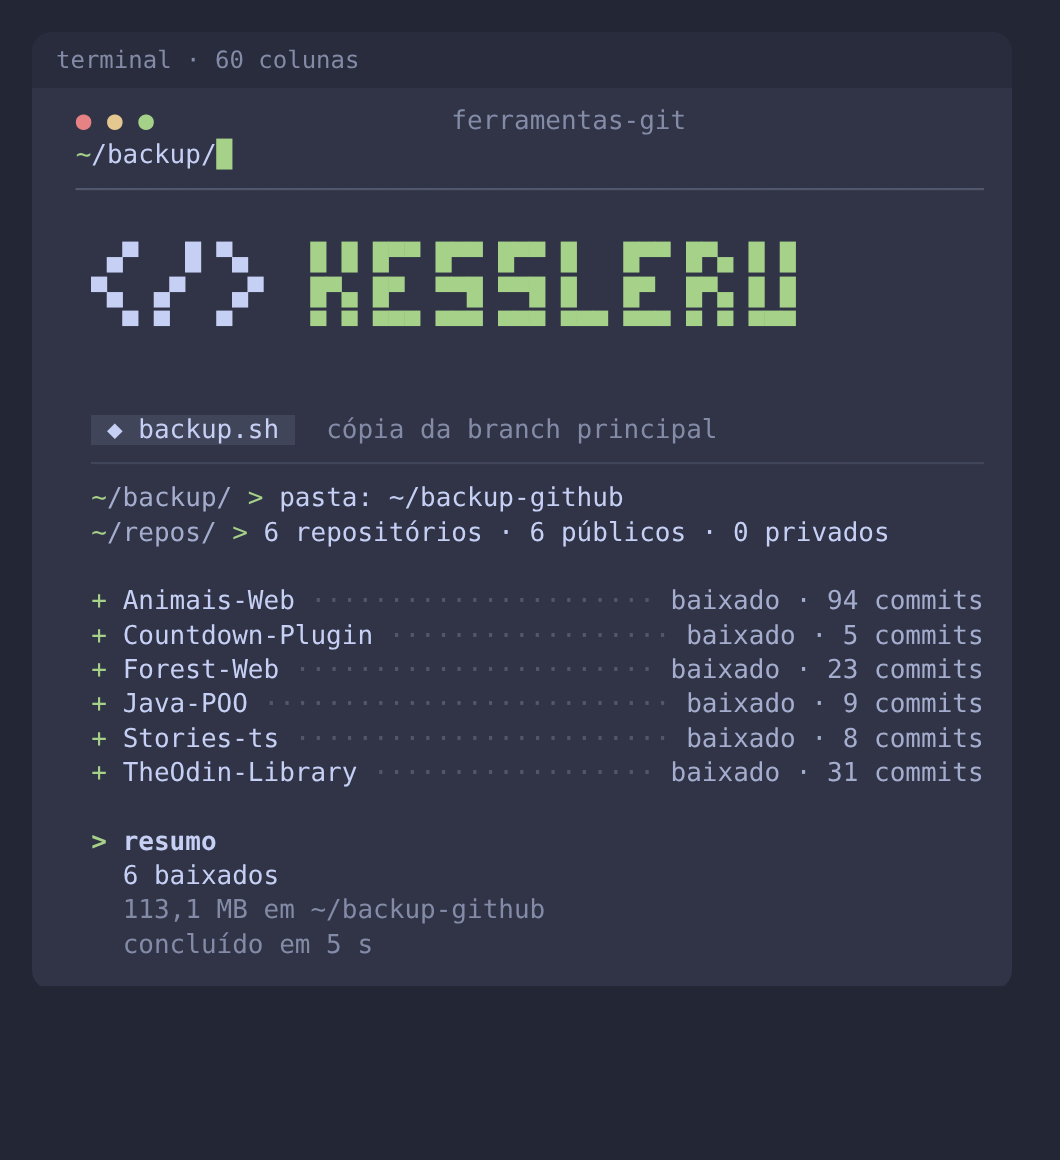
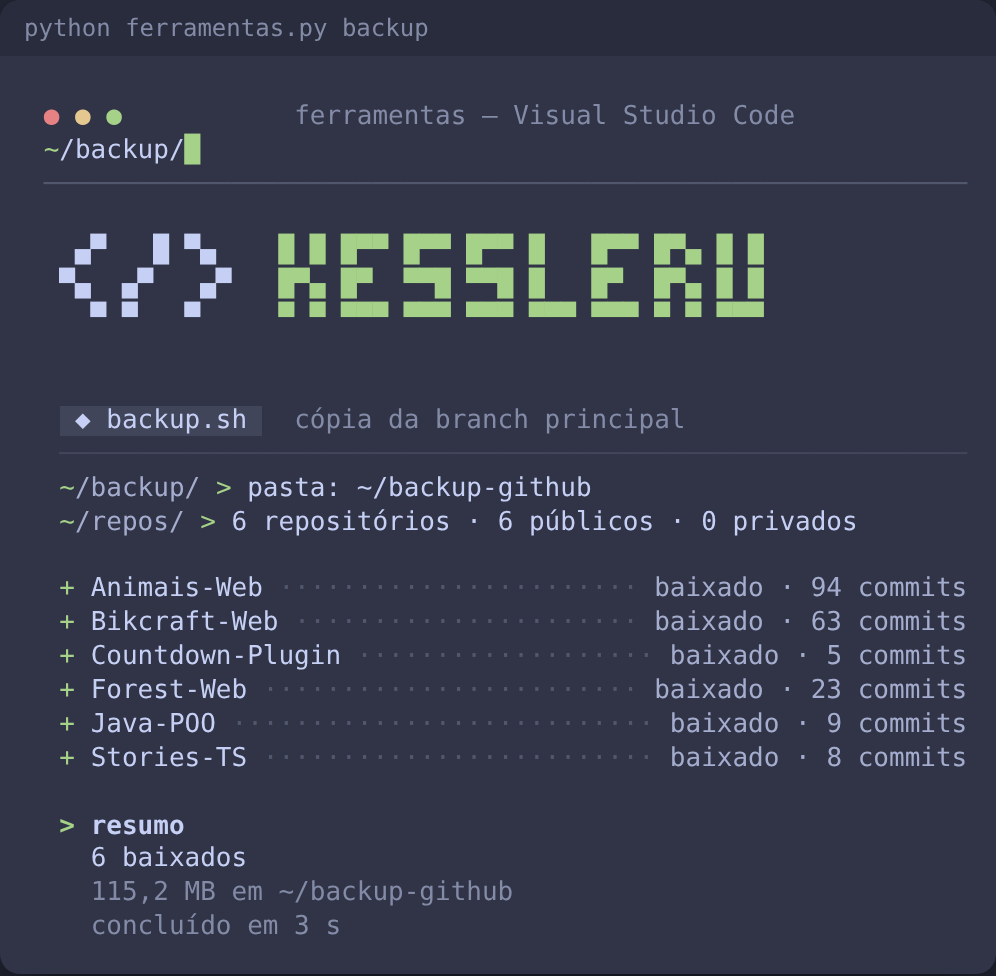
refactor: renomeia ferramentas-git para ferramentas
O arquivo passa a se chamar ferramentas.py, e o nome muda também no
título do terminal, nos relatórios, no user-agent e no README.

A pasta de relatórios, cache e backups vira ~/.ferramentas; a antiga
~/.ferramentas-git é movida sozinha na primeira execução. As variáveis
FERRAMENTAS_CASA, FERRAMENTAS_DONO e FERRAMENTAS_ASCII continuam
aceitando os nomes antigos (FERRAMENTAS_GIT_*).

Capturas do README refeitas com o nome novo.

diff --git a/ferramentas.py b/ferramentas.py
@@ -1,25 +1,25 @@
 #!/usr/bin/env python3
-# ferramentas-git — onze ferramentas num arquivo só, em duas partes.
+# ferramentas — onze ferramentas num arquivo só, em duas partes.
 #
-#   python ferramentas-git.py                abre o menu
+#   python ferramentas.py                abre o menu
 #
 #   PARTE 1 · seus repositórios no GitHub
-#   python ferramentas-git.py segredos       caça chaves e senhas no histórico
-#   python ferramentas-git.py branches       apaga branches já mescladas
-#   python ferramentas-git.py demos          confere se os sites das demos estão no ar
-#   python ferramentas-git.py backup         baixa/atualiza a branch principal de todos
-#   python ferramentas-git.py deps           vulnerabilidades e dependências velhas
-#   python ferramentas-git.py coautores      tira a coautoria do Claude do histórico
+#   python ferramentas.py segredos       caça chaves e senhas no histórico
+#   python ferramentas.py branches       apaga branches já mescladas
+#   python ferramentas.py demos          confere se os sites das demos estão no ar
+#   python ferramentas.py backup         baixa/atualiza a branch principal de todos
+#   python ferramentas.py deps           vulnerabilidades e dependências velhas
+#   python ferramentas.py coautores      tira a coautoria do Claude do histórico
 #
 #   PARTE 2 · seu computador e seus sites
-#   python ferramentas-git.py faxina         libera espaço de projetos parados (node_modules, venv, builds, caches)
-#   python ferramentas-git.py portas         quem está usando cada porta, e encerra quem você escolher
-#   python ferramentas-git.py raiox SITE     acessibilidade, SEO, desempenho, segurança e links de um site
-#   python ferramentas-git.py peso SITE      o que cada página carrega, o que mais pesa e quanto dá para economizar
-#   python ferramentas-git.py atualizar      atualiza sistema, linguagens, pacotes globais e extensões do PC
+#   python ferramentas.py faxina         libera espaço de projetos parados (node_modules, venv, builds, caches)
+#   python ferramentas.py portas         quem está usando cada porta, e encerra quem você escolher
+#   python ferramentas.py raiox SITE     acessibilidade, SEO, desempenho, segurança e links de um site
+#   python ferramentas.py peso SITE      o que cada página carrega, o que mais pesa e quanto dá para economizar
+#   python ferramentas.py atualizar      atualiza sistema, linguagens, pacotes globais e extensões do PC
 #
 # Opções de todas: --teste (só mostra, não altera nada), --sim (não pergunta), --ascii, --sem-cor.
-# Cada ferramenta tem as suas: python ferramentas-git.py backup --help
+# Cada ferramenta tem as suas: python ferramentas.py backup --help
 #
 # Precisa de Python 3.8+. A parte 1 usa git e curl; o raio-x e o peso usam curl.
 # O git-filter-repo (só para o coautores) se instala sozinho.
@@ -46,8 +46,24 @@ from datetime import datetime, timezone
 from pathlib import Path
 from urllib.parse import quote, urlparse
 
-DONO = os.environ.get('FERRAMENTAS_GIT_DONO', 'kessleru')
-CASA = Path(os.environ.get('FERRAMENTAS_GIT_CASA') or Path.home() / '.ferramentas-git')
+DONO = os.environ.get('FERRAMENTAS_DONO') or os.environ.get('FERRAMENTAS_GIT_DONO') or 'kessleru'
+
+
+def _pasta_da_casa():
+    escolhida = os.environ.get('FERRAMENTAS_CASA') or os.environ.get('FERRAMENTAS_GIT_CASA')
+    if escolhida:
+        return Path(escolhida)
+    nova, velha = Path.home() / '.ferramentas', Path.home() / '.ferramentas-git'
+    # a pasta se chamava .ferramentas-git: leva junto relatórios, cache, backups e o estado
+    if velha.is_dir() and not nova.exists():
+        try:
+            velha.rename(nova)
+        except OSError:
+            return velha
+    return nova
+
+
+CASA = _pasta_da_casa()
 
 # ═══════════════════════════════ núcleo: utilidades ═══════════════════════════════
 
@@ -208,7 +224,7 @@ class Terminal:
         # o Python força UTF-8 até em locale "C", então quem diz se o terminal entende UTF-8 é o idioma
         idioma = env.get('LC_ALL') or env.get('LC_CTYPE') or env.get('LANG') or ''
         sem_utf8 = os.name != 'nt' and ((idioma and 'utf' not in idioma.lower()) or (cod_original and 'utf8' not in cod_original))
-        if ascii_forcado or env.get('FERRAMENTAS_GIT_ASCII') or sem_utf8:
+        if ascii_forcado or env.get('FERRAMENTAS_ASCII') or env.get('FERRAMENTAS_GIT_ASCII') or sem_utf8:
             self.nivel = 'ascii'
         elif (os.name == 'nt' and not win_moderno) or termo == 'linux':
             self.nivel = 'simples'
@@ -268,7 +284,7 @@ class Terminal:
     def cabecalho(self, caminho):
         w = self.largura
         bolas = ' '.join(self.p('●', c) for c in ('vermelho', 'amarelo', 'verde'))
-        titulo = 'ferramentas-git — Visual Studio Code' if w >= 60 else 'ferramentas-git'
+        titulo = 'ferramentas — Visual Studio Code' if w >= 60 else 'ferramentas'
         self.escreve()
         self.escreve(' ' + bolas + ' ' * max(2, (w - 6 - len(titulo)) // 2) + self.p(titulo, 'apagado'))
         self.escreve(' ' + self.p('~', 'verde') + self.p(f'/{caminho}/', 'texto') + self.p('█', 'verde'))
@@ -401,7 +417,7 @@ class Progresso:
 
 class Relatorio:
     def __init__(self, nome):
-        self.nome, self.linhas = nome, [f'ferramentas-git · {nome} · {datetime.now():%d/%m/%Y %H:%M}', '']
+        self.nome, self.linhas = nome, [f'ferramentas · {nome} · {datetime.now():%d/%m/%Y %H:%M}', '']
 
     def add(self, *linhas):
         self.linhas.extend(linhas)
@@ -471,7 +487,7 @@ class GitHub:
         do_github = url.startswith(self.API)
         aceita = aceita or ('application/vnd.github+json' if do_github else 'application/json')
         # o token vai pela configuração no stdin do curl, nunca na linha de comando
-        cfg = [f'url = "{url}"', f'header = "Accept: {aceita}"', 'header = "User-Agent: ferramentas-git"']
+        cfg = [f'url = "{url}"', f'header = "Accept: {aceita}"', 'header = "User-Agent: ferramentas"']
         if do_github:
             cfg.append('header = "X-GitHub-Api-Version: 2022-11-28"')
             if self.token:
@@ -1181,9 +1197,9 @@ def coleta_demos(gh, r):
 
 
 def checa_url(url):
-    marca = '\n__ferramentas_git__'
+    marca = '\n__ferramentas__'
     r = roda(['curl', '-sS', '-L', '--compressed', '--max-time', '20', '--max-redirs', '8',
-              '-A', 'Mozilla/5.0 (ferramentas-git; verificador de demos)', '-o', '-',
+              '-A', 'Mozilla/5.0 (ferramentas; verificador de demos)', '-o', '-',
               '-w', marca + '%{http_code} %{time_total}', url], tempo=30)
     corpo, _, fim = r.stdout.rpartition(marca.encode())
     partes = texto(fim).split()
@@ -1330,7 +1346,7 @@ def backup_repo(r, destino, env):
 
 
 def escreve_indice(destino, repos):
-    linhas = ['# Backup dos repositórios', '', f'Atualizado em {datetime.now():%d/%m/%Y %H:%M} pelo ferramentas-git.', '',
+    linhas = ['# Backup dos repositórios', '', f'Atualizado em {datetime.now():%d/%m/%Y %H:%M} pelo ferramentas.', '',
               '| Repositório | Branch | Último commit | Mensagem |', '| --- | --- | --- | --- |']
     for r in repos:
         pasta = destino / r['name']
@@ -2742,7 +2758,7 @@ def ferramenta_portas(t, args):
 # ═══════════════════════════════ 9. raio-x ═══════════════════════════════
 
 UA_NAVEGADOR = ('Mozilla/5.0 (Windows NT 10.0; Win64; x64) AppleWebKit/537.36 (KHTML, like Gecko) '
-                'Chrome/124.0 Safari/537.36 ferramentas-git/raiox')
+                'Chrome/124.0 Safari/537.36 ferramentas/raiox')
 ERROS_REDE = {6: 'o domínio não existe', 7: 'conexão recusada', 28: 'demorou demais', 35: 'erro de HTTPS',
               47: 'redirecionamentos demais', 51: 'certificado HTTPS inválido', 52: 'o servidor não respondeu',
               56: 'a conexão caiu', 58: 'certificado HTTPS inválido', 60: 'certificado HTTPS inválido'}
@@ -3583,7 +3599,7 @@ def gera_resumo_ia(res, notas, lh, extras, fontes):
     prio = {'falha': 'ALTA', 'aviso': 'MÉDIA', 'info': 'BAIXA (opcional)'}
     rotulos = dict(CATEGORIAS)
     L = [f'# Raio-x de {res["final"]}: correções', '',
-         f'> Gerado pelo ferramentas-git em {datetime.now():%d/%m/%Y %H:%M}. Notas: '
+         f'> Gerado pelo ferramentas em {datetime.now():%d/%m/%Y %H:%M}. Notas: '
          + ' · '.join(f'{rotulos[c]} {notas[c]}' for c, _ in CATEGORIAS if notas.get(c) is not None), '',
          '## Contexto', '', f'- Endereço analisado: {res["final"]}']
     if res.get('tec') or res.get('hospedagem'):
@@ -3635,7 +3651,7 @@ def gera_resumo_ia(res, notas, lh, extras, fontes):
         for e in paginas:
             L.append(f'- {e["final"]}: ' + '; '.join(a['titulo'] for a in e['achados'] if a['nivel'] == 'falha'))
         L.append('')
-    L += ['## Como conferir', '', f'- [ ] Rodar de novo: `python ferramentas-git.py raiox {res["final"]}`',
+    L += ['## Como conferir', '', f'- [ ] Rodar de novo: `python ferramentas.py raiox {res["final"]}`',
           '- [ ] Nenhum item de prioridade ALTA restante', '- [ ] As notas não caíram em nenhuma categoria', '']
     return '\n'.join(L)
 
@@ -4210,7 +4226,7 @@ def gera_resumo_peso(med, total, tipos, n_req, economia, maiores, terceiros):
     fonte = 'Lighthouse, ' + ('computador' if med.get('desktop') else 'celular') if med['fonte'] == 'lighthouse' else 'medição própria'
     rotulos = {k: r for k, r, _ in TIPOS_PESO}
     L = [f'# Peso de {med["final"]}: o que reduzir', '',
-         f'> Medido pelo ferramentas-git em {datetime.now():%d/%m/%Y %H:%M} ({fonte}). '
+         f'> Medido pelo ferramentas em {datetime.now():%d/%m/%Y %H:%M} ({fonte}). '
          f'Total: {humano(total)} em {n_req} requisições.', '', '## Contexto', '',
          f'- Meta para o celular: até {meta_mb()} por página; a mediana da web é ~2,3 MB.']
     if med.get('tec') or med.get('hospedagem'):
@@ -4253,7 +4269,7 @@ def gera_resumo_peso(med, total, tipos, n_req, economia, maiores, terceiros):
         L += ['## Terceiros', '', 'Scripts e arquivos de outros domínios. Avalie se cada um é necessário, se pode carregar '
               'depois da interação ou ser auto-hospedado (fontes, por exemplo):', '']
         L += [f'- {n}: {humano(v["bytes"])} em {pl(v["n"], "arquivo")}' for n, v in terceiros] + ['']
-    L += ['## Como conferir', '', f'- [ ] Rodar de novo: `python ferramentas-git.py peso {med["final"]}`',
+    L += ['## Como conferir', '', f'- [ ] Rodar de novo: `python ferramentas.py peso {med["final"]}`',
           f'- [ ] Total abaixo de {humano(total)} (meta: {meta_mb()})',
           '- [ ] O site continua igual na tela, no celular e no computador', '']
     return '\n'.join(L)
@@ -5176,7 +5192,7 @@ def monta_parser():
     de_repos.add_argument('--forks', action='store_true', help='inclui forks')
     de_repos.add_argument('--sem-login', action='store_true', help='não usa token; só o acesso que o git já tem')
 
-    p = argparse.ArgumentParser(prog='ferramentas-git', parents=[comum],
+    p = argparse.ArgumentParser(prog='ferramentas', parents=[comum],
                                 description='Ferramentas para os seus repositórios, o seu computador e os seus sites. '
                                             'Sem comando, abre o menu.')
     sub = p.add_subparsers(dest='comando', metavar='comando')

diff --git a/README.md b/README.md
@@ -1,11 +1,11 @@
 <div align="center">
 
-<img src=".github/readme/banner.svg" alt="ferramentas-git: janela de terminal com o logo </> KESSLERU em pixels e a lista das onze ferramentas, no estilo neofetch" width="100%">
+<img src=".github/readme/banner.svg" alt="ferramentas: janela de terminal com o logo </> KESSLERU em pixels e a lista das onze ferramentas, no estilo neofetch" width="100%">
 
 **Onze ferramentas num arquivo só: seis cuidam dos seus repositórios no GitHub e cinco cuidam do seu computador e dos seus sites.**
 
 [![Python](https://img.shields.io/badge/python-3.8%2B-a6e3a1?style=for-the-badge&logo=python&logoColor=black)](https://www.python.org/downloads/)
-[![Dependências](https://img.shields.io/badge/depend%C3%AAncias-zero-313244?style=for-the-badge)](ferramentas-git.py)
+[![Dependências](https://img.shields.io/badge/depend%C3%AAncias-zero-313244?style=for-the-badge)](ferramentas.py)
 [![Terminais](https://img.shields.io/badge/terminais-Windows%20%C2%B7%20macOS%20%C2%B7%20Linux-cba6f7?style=for-the-badge)](#funciona-em-qualquer-terminal)
 
 <img src=".github/readme/menu.png" alt="Menu no terminal: logo </> KESSLERU em blocos e as onze ferramentas em dois grupos, GitHub e computador" width="520">
@@ -17,9 +17,9 @@
 Precisa de **Python 3.8+**. Nada para instalar com pip.
 
 ```bash
-python ferramentas-git.py                  # abre o menu
-python ferramentas-git.py segredos         # ou vai direto numa ferramenta
-python ferramentas-git.py raiox meusite.com.br
+python ferramentas.py                  # abre o menu
+python ferramentas.py segredos         # ou vai direto numa ferramenta
+python ferramentas.py raiox meusite.com.br
 ```
 
 A parte do GitHub também usa **git** e **curl**. Na primeira vez ela procura seu login sozinha: a variável `GH_TOKEN`, o `gh`, ou o login que o git já guarda. Se não achar, pede um token (tipo *classic*, com `repo` e `workflow`) e não mostra o que você digita.
@@ -38,7 +38,7 @@ A parte do GitHub também usa **git** e **curl**. Na primeira vez ela procura se
 <details>
 <summary><b>O que cada uma faz por dentro</b></summary>
 
-- **segredos**: lê cada versão de cada arquivo que já existiu, em todas as branches, e procura mais de 20 tipos de chave (GitHub, AWS, OpenAI, Anthropic, Stripe, Discord, Mercado Pago, chave privada, endereço de banco com senha…). Chave em teste, exemplo ou documentação aparece rebaixada, com o motivo. JWT é aberto para saber se é a `service_role` do Supabase (grave) ou a `anon` (pública). Falso positivo vai para `~/.ferramentas-git/segredos-ignorados.txt`.
+- **segredos**: lê cada versão de cada arquivo que já existiu, em todas as branches, e procura mais de 20 tipos de chave (GitHub, AWS, OpenAI, Anthropic, Stripe, Discord, Mercado Pago, chave privada, endereço de banco com senha…). Chave em teste, exemplo ou documentação aparece rebaixada, com o motivo. JWT é aberto para saber se é a `service_role` do Supabase (grave) ou a `anon` (pública). Falso positivo vai para `~/.ferramentas/segredos-ignorados.txt`.
 - **branches**: compara cada branch com a principal e com os PRs. Só marca para apagar a que já está inteira na principal, ou cujo PR foi mesclado sem commits depois. Guarda o que apagou e desfaz com `--restaurar`. No fim, oferece ligar o "apagar branch após o merge" do GitHub.
 - **demos**: pega o link do campo "site", do README e do GitHub Pages, abre cada um e reconhece página de erro disfarçada (deploy apagado da Vercel, Pages desligado, app suspenso no Render/Heroku).
 - **backup**: clona só a branch principal e, nas próximas vezes, só puxa o que mudou. Se o histórico foi reescrito no GitHub, guarda a cópia velha em `.antigos` antes de baixar de novo; se você mexeu nos arquivos do backup, não atropela. Mantém um `INDICE.md` com o último commit de cada repositório.
@@ -100,7 +100,7 @@ O `raiox` e o `peso` terminam gerando um `.md` com cada problema, onde ele apare
 | `--copiar` | raiox, peso | Copia o resumo para a IA na área de transferência |
 | `--so LISTA` · `--pular LISTA` | atualizar | Só esses, ou menos esses (ex.: `--so npm,pip` ou `--pular editores`) |
 
-Cada ferramenta lista as próprias opções com `--help`, por exemplo `python ferramentas-git.py peso --help`.
+Cada ferramenta lista as próprias opções com `--help`, por exemplo `python ferramentas.py peso --help`.
 
 ## Funciona em qualquer terminal
 
@@ -114,14 +114,14 @@ Windows Terminal, cmd e PowerShell, Git Bash, Terminal do macOS, iTerm, VS Code 
 - Achados de segredos aparecem mascarados (`ghp_…a9`), na tela e no relatório.
 - O `raiox` e o `peso` só leem o site, como um navegador faria.
 
-Relatórios, cache, logs e backups ficam em `~/.ferramentas-git`.
+Relatórios, cache, logs e backups ficam em `~/.ferramentas`.
 
 ## Estrutura
 
 O arquivo é dividido em partes marcadas, para achar qualquer ferramenta rápido:
 
 ```
-ferramentas-git.py
+ferramentas.py
   núcleo                    utilidades e o terminal (cores, símbolos, progresso)
   PARTE 1 · GitHub          login e API, 1. segredos … 6. coautores
   PARTE 2 · computador      7. faxina, 8. portas, 9. raio-x, 10. peso, 11. atualizar
